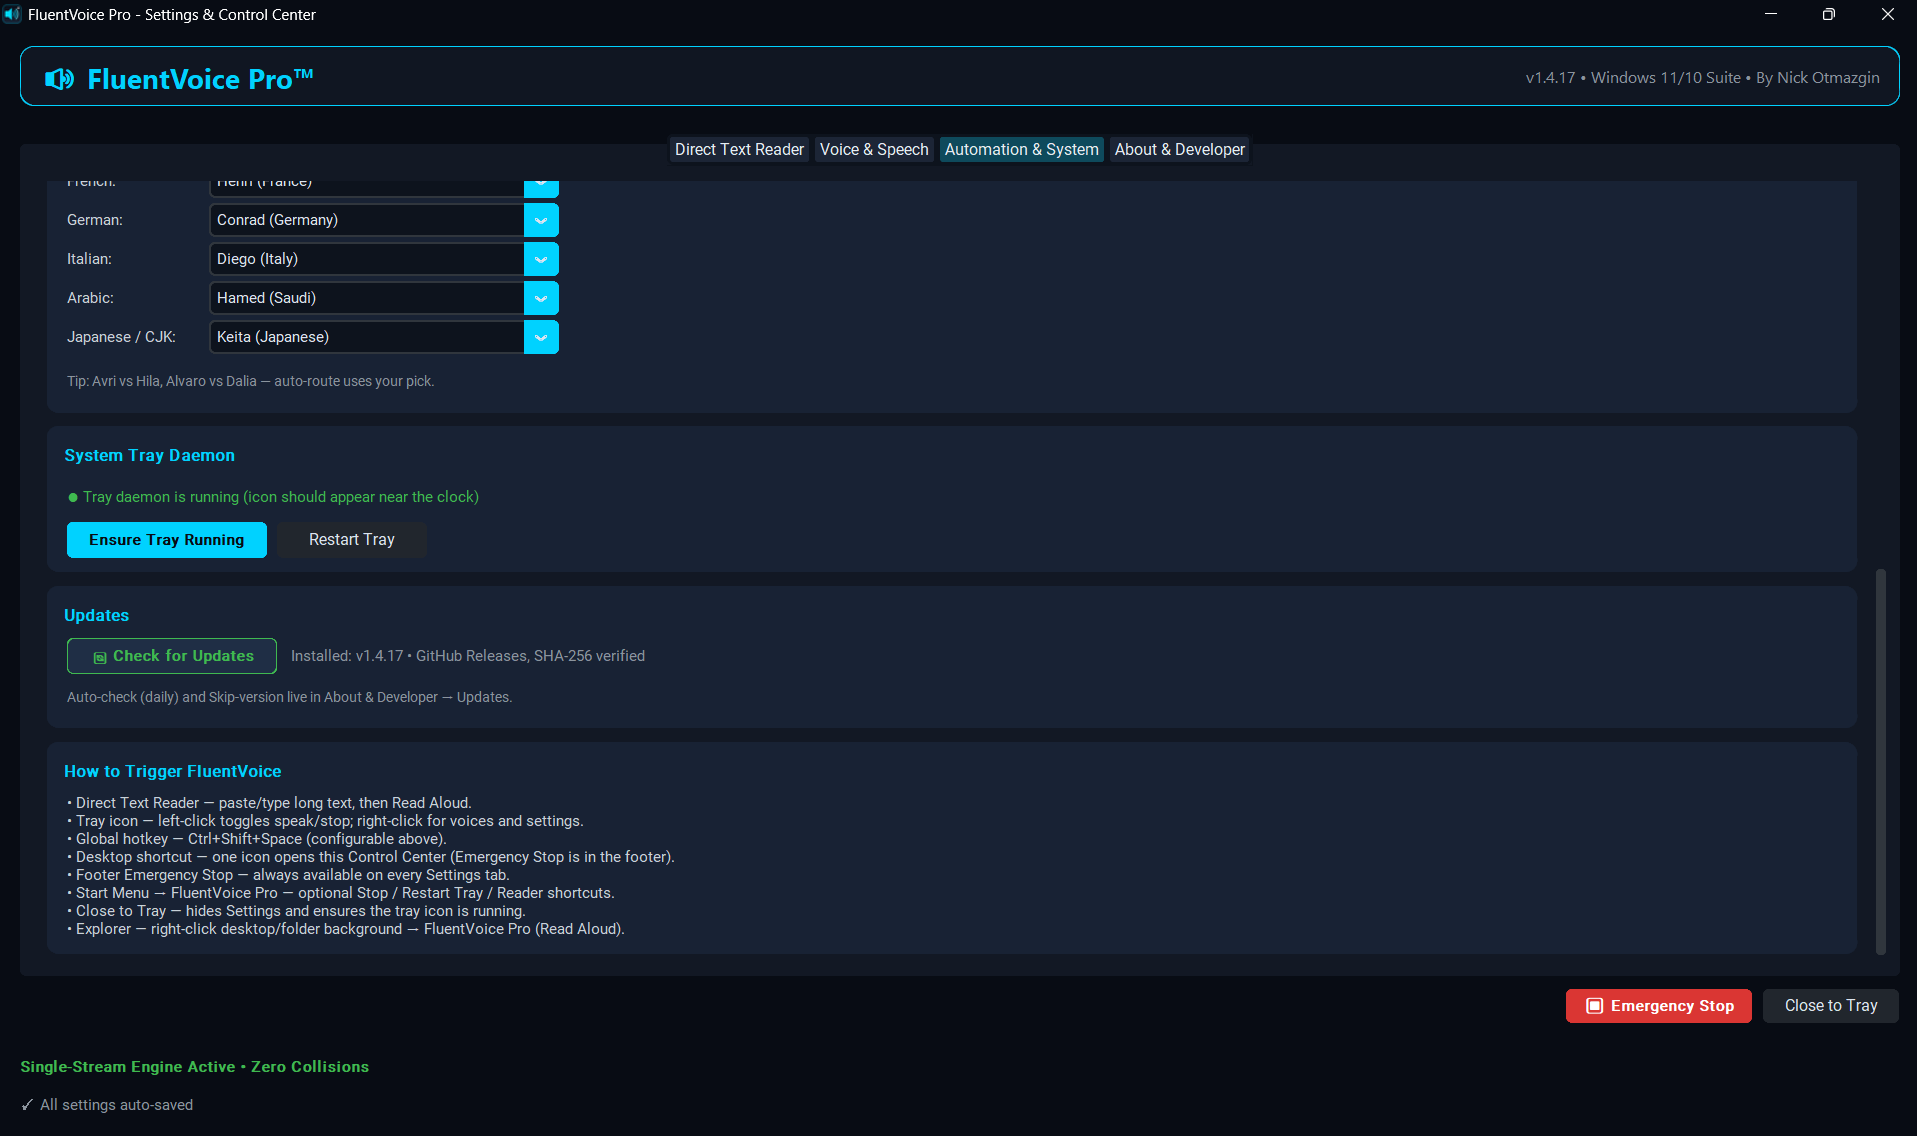
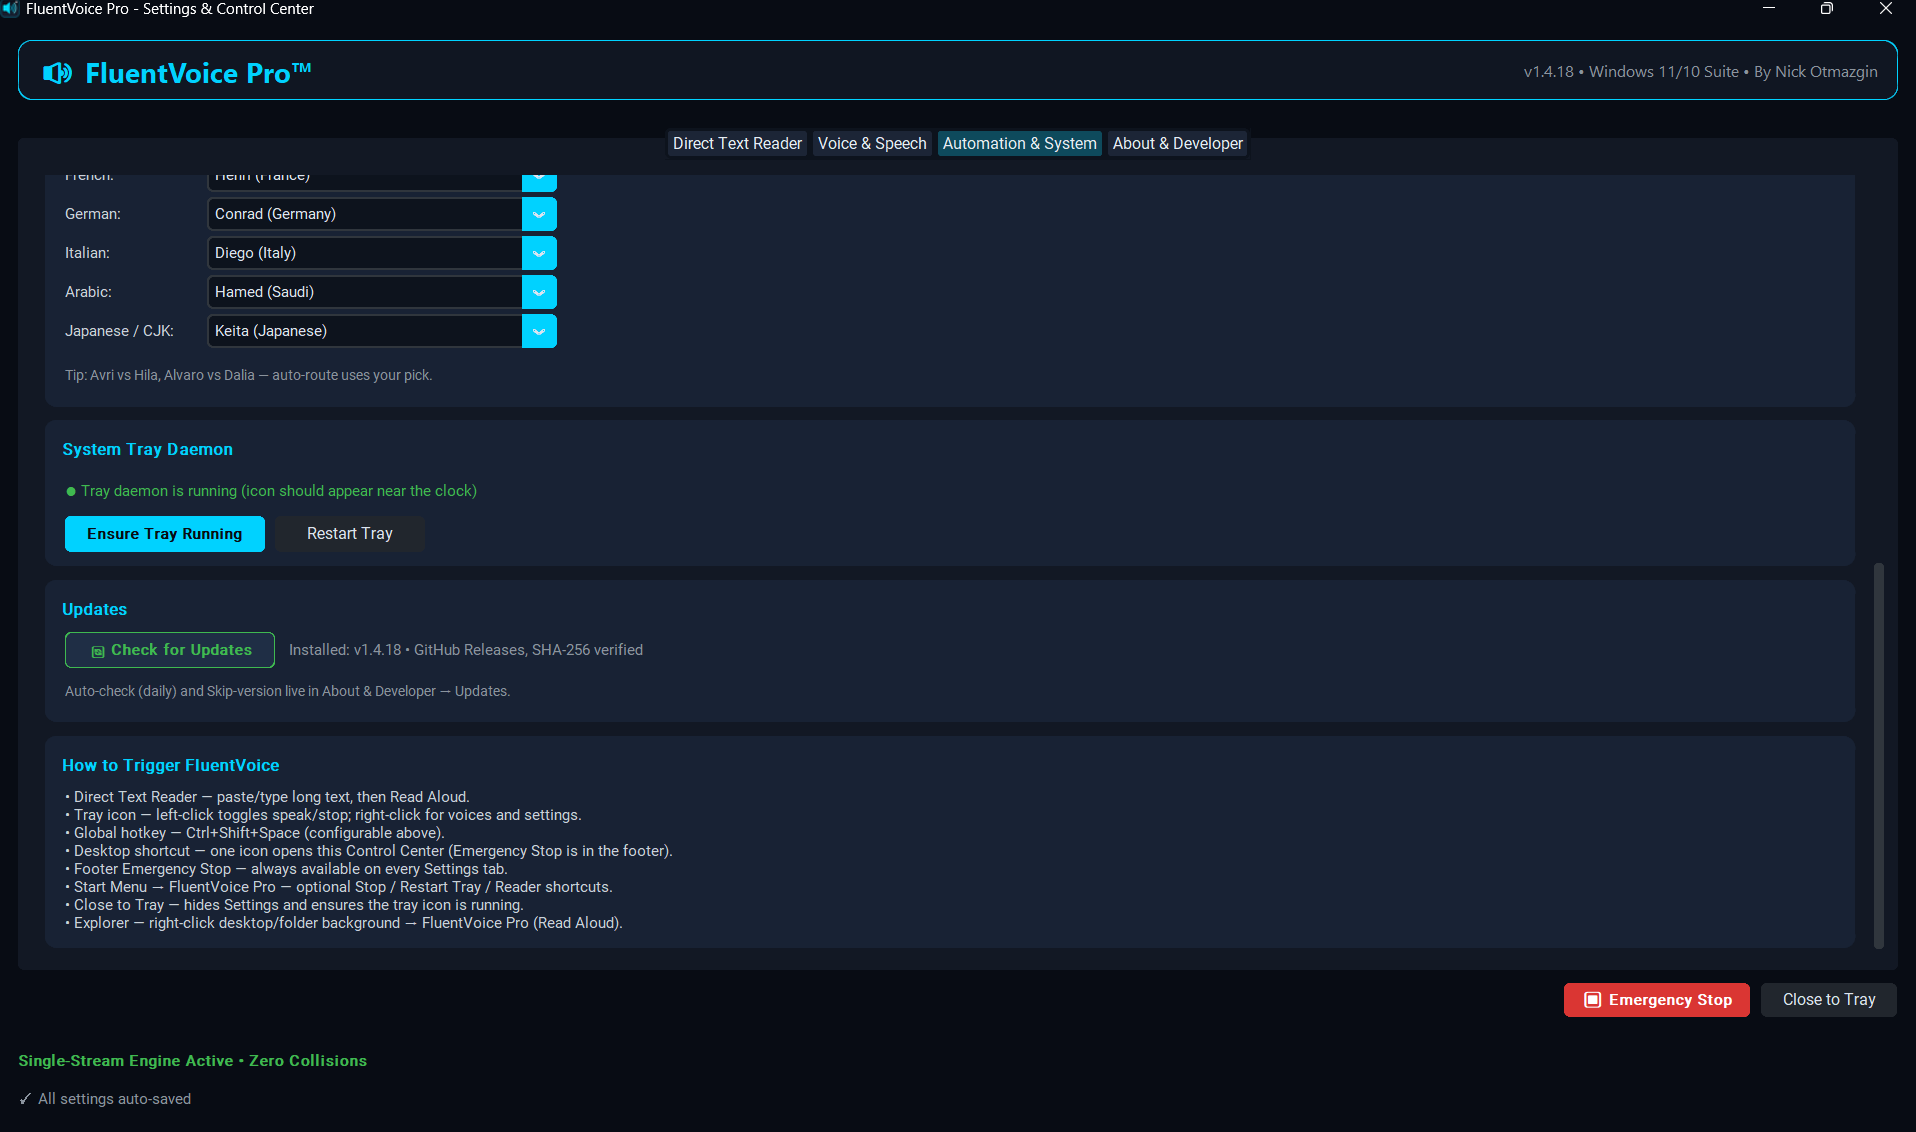
docs: v1.4.18 screenshots 04/05/08 retaken on v1.4.18, rebuilt collages
- 04 About/Updates, 05 tray menu (voices submenu, new Hebrew icon) and
  08 Automation/Updates now show v1.4.18.
- Collage, 1080 social and 1280x640 GitHub preview rebuilt; the preview now
  uses two equal wide panels so the wide tray capture stays readable.

diff --git a/scripts/build_collage.py b/scripts/build_collage.py
@@ -177,11 +177,13 @@ def main() -> None:
     og = gradient_bg(1280, 640)
     accent_bar(og, 6)
     top = header(og, 0.5, 36, 22, compact=True)
+    # Two equal panels sized to the Settings window aspect, centred in the space left.
     m, gap, s = 28, 18, 0.5
-    ph = 640 - top - m
-    wide = int(29 * s) + round((ph - int(29 * s) - int(8 * s)) * 1920 / 1140) + 2 * int(8 * s)
-    panel(og, shots[PANELS[0][0]], PANELS[0][1], PANELS[0][2], m, top, wide, ph, s=s)
-    panel(og, shots[PANELS[4][0]], PANELS[4][1], PANELS[4][2], m + wide + gap, top, 1280 - 2 * m - wide - gap, ph, s=s)
+    pw = (1280 - 2 * m - gap) // 2
+    ph = int(29 * s) + round((pw - 2 * int(8 * s)) * 1140 / 1920) + int(8 * s)
+    y = top + max(0, (640 - top - m - ph) // 2)
+    for i, (f, n, label) in enumerate((PANELS[0], PANELS[4])):
+        panel(og, shots[f], n, label, m + i * (pw + gap), y, pw, ph, s=s)
     og_path = SRC / "social-preview-1280x640.jpg"
     og.save(og_path, "JPEG", quality=94, optimize=True, subsampling=0)
 
